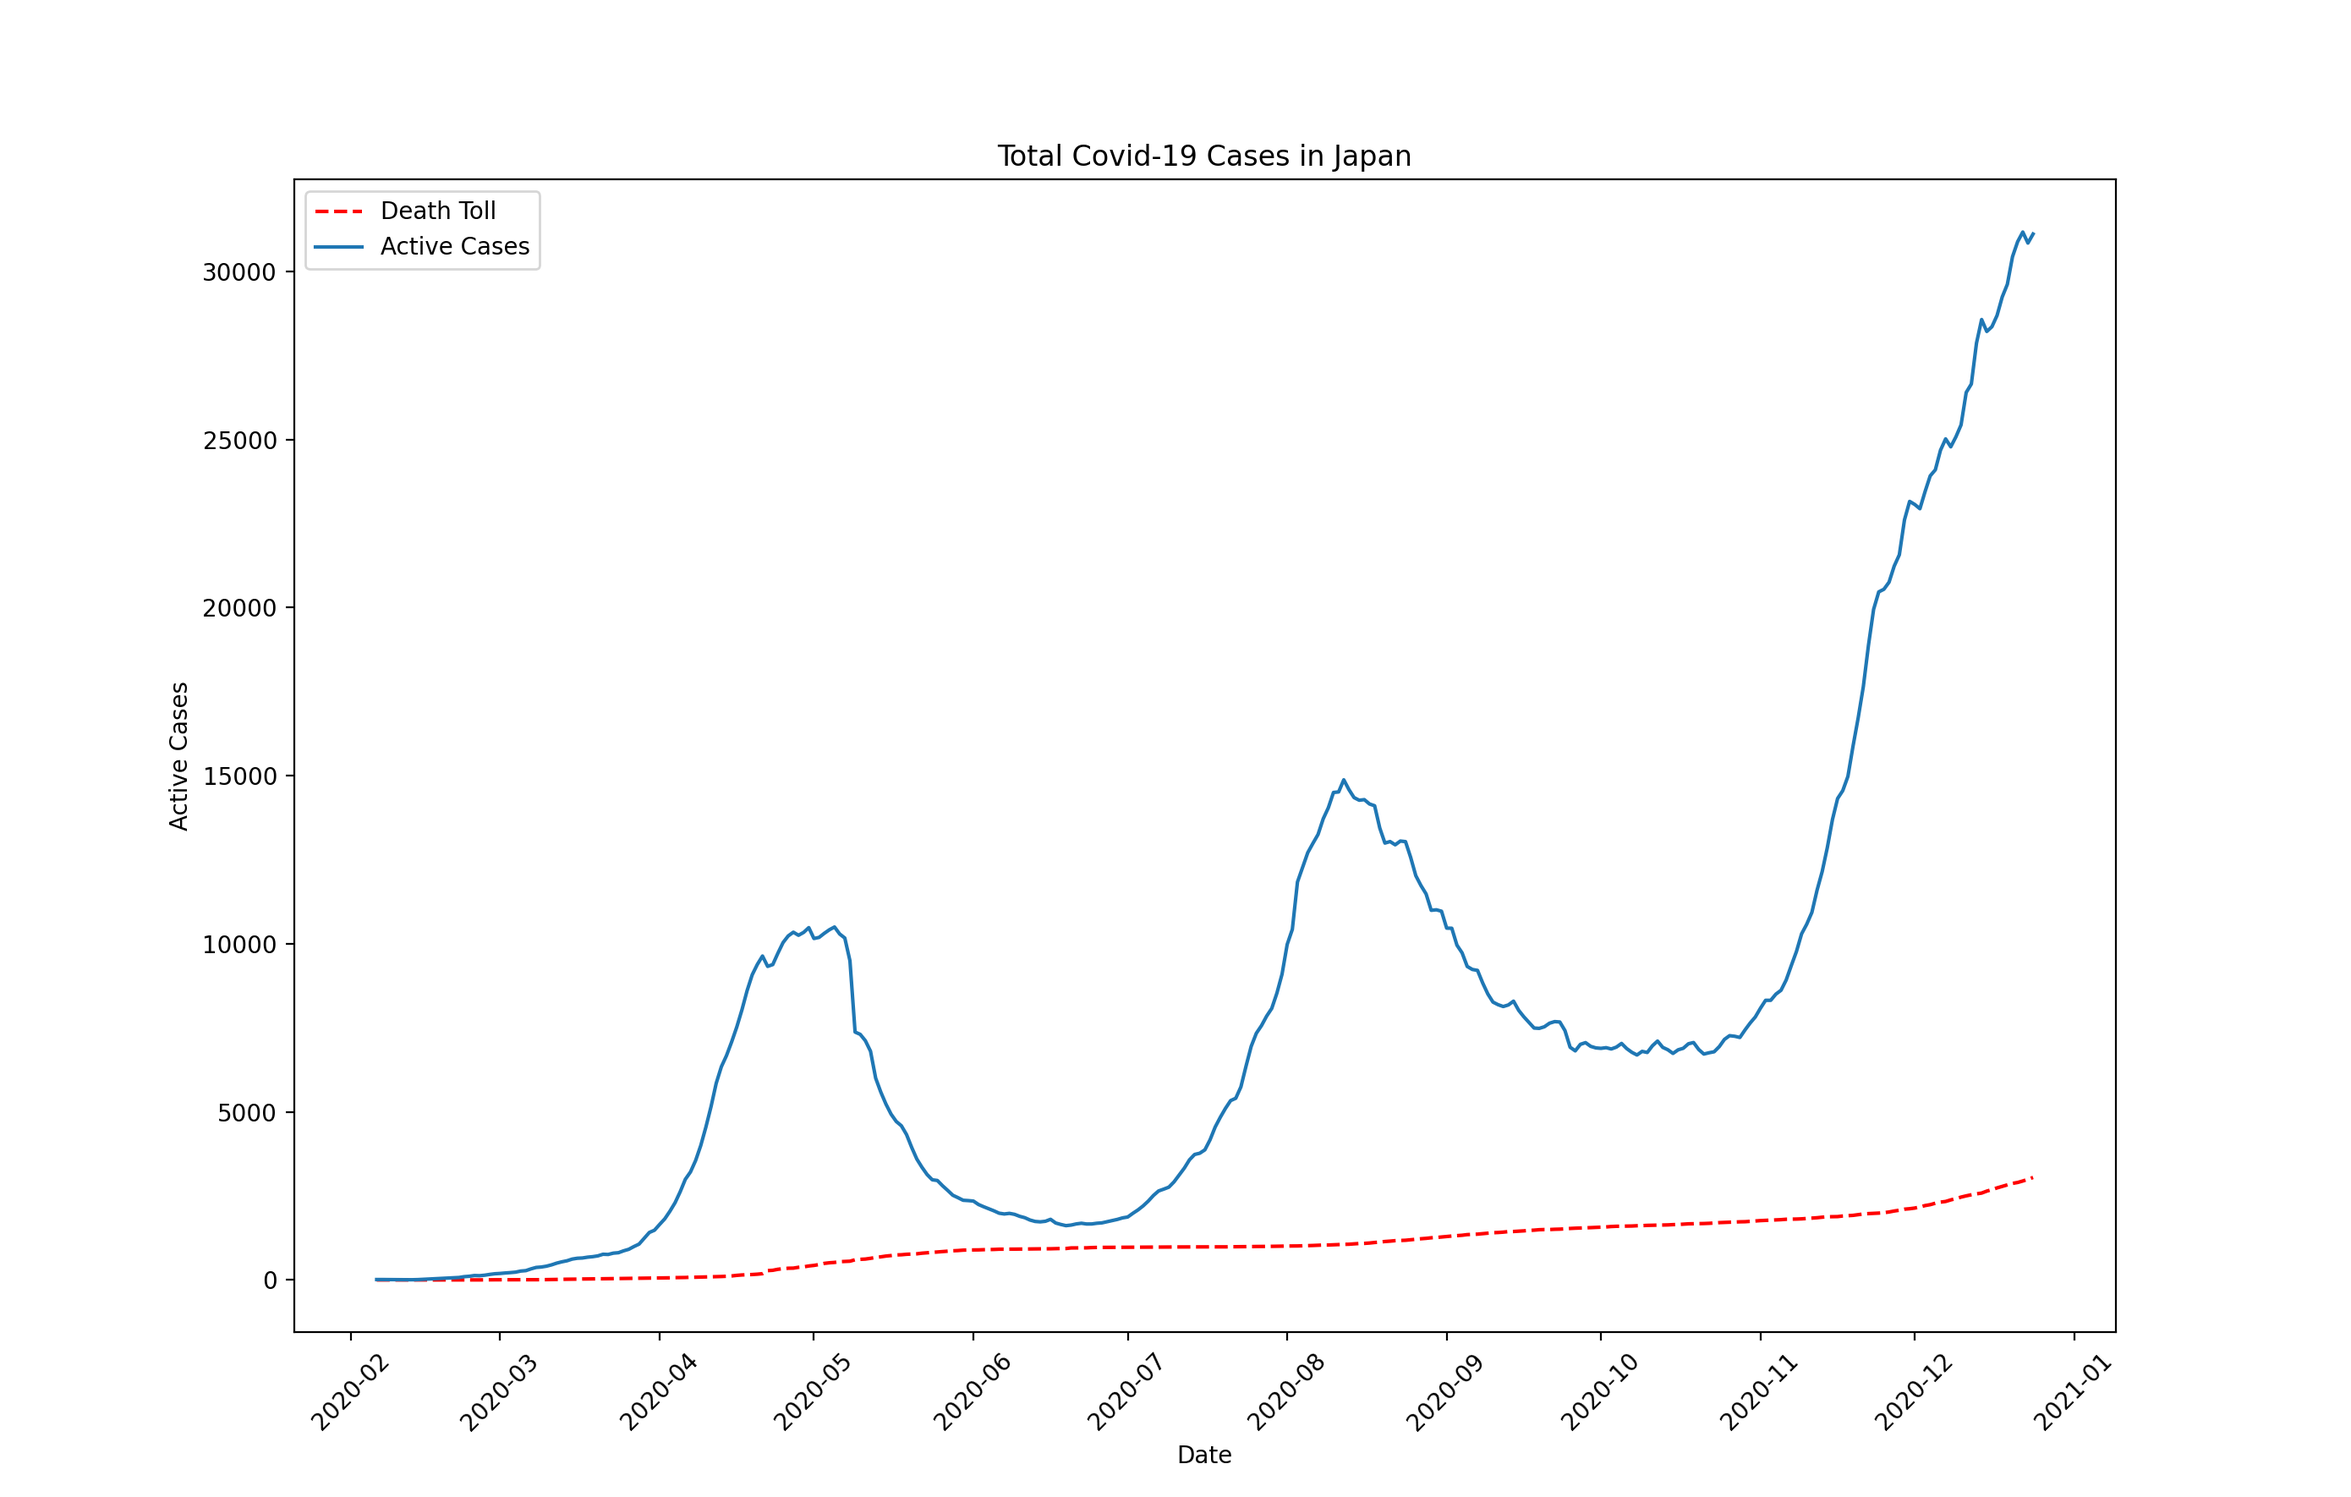
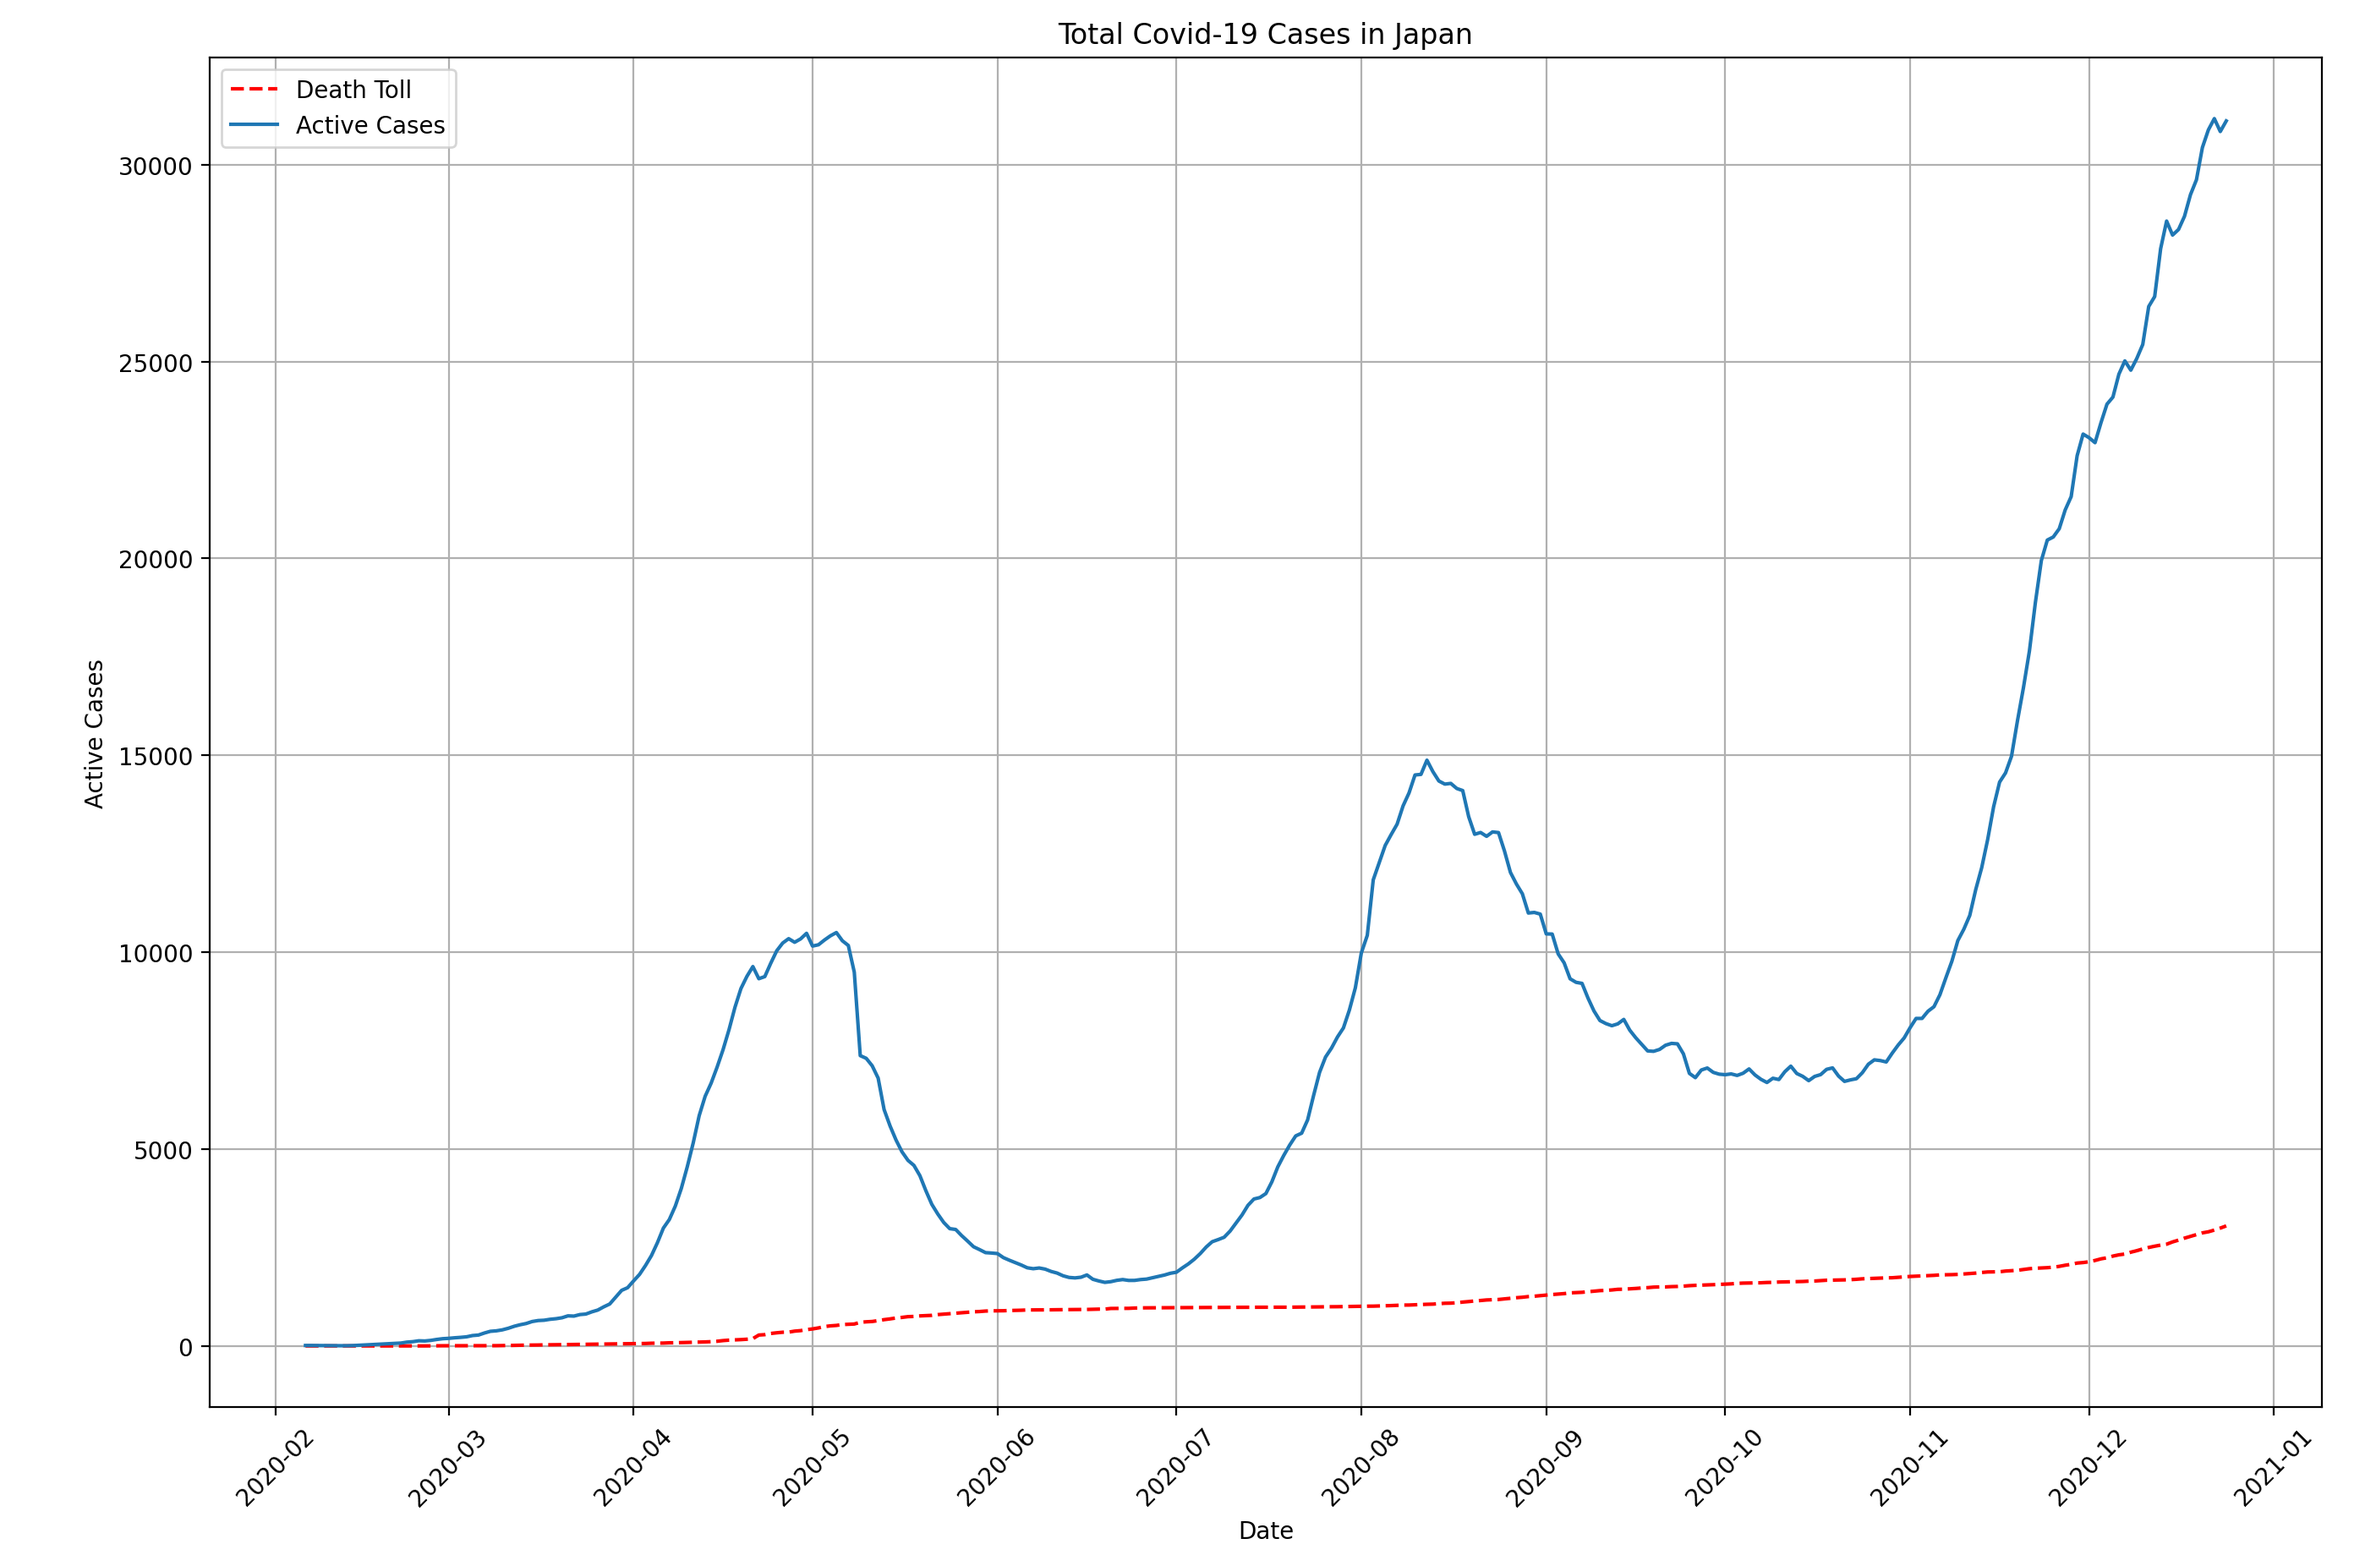
Add Stage 1

diff --git a/scripts/main.py b/scripts/main.py
@@ -19,7 +19,8 @@ ax.plot(df.index.values,
         df['Fatal'],
         linestyle="--",
         color='red',
-        label="Death Toll")
+        label="Death Toll",
+        )
 
 # Set title and labels for axes
 # ax.set(xlabel="Date",
@@ -40,7 +41,9 @@ plt.title('Total Covid-19 Cases in Japan')
 plt.xlabel("Date")
 plt.ylabel("Active Cases")
 
-
+# 線が足されるので、良い
+plt.grid()
+fig.tight_layout()
 plt.show()
 
 # fig, ax = plt.subplots(figsize=(10,10))
